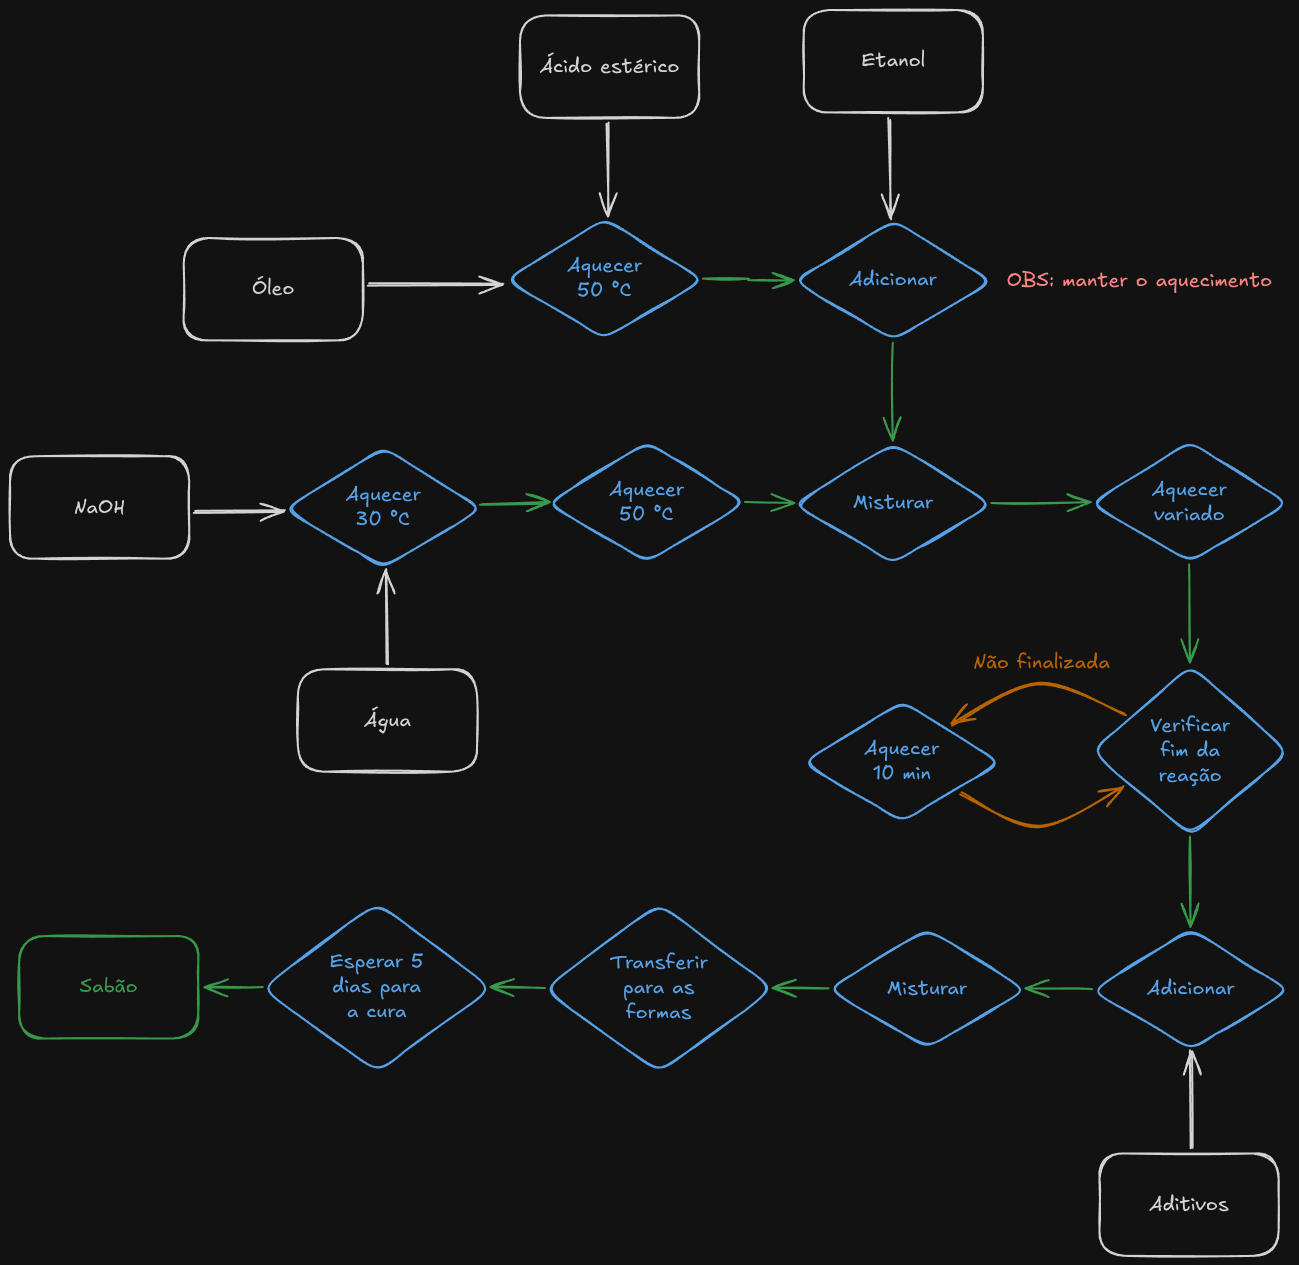
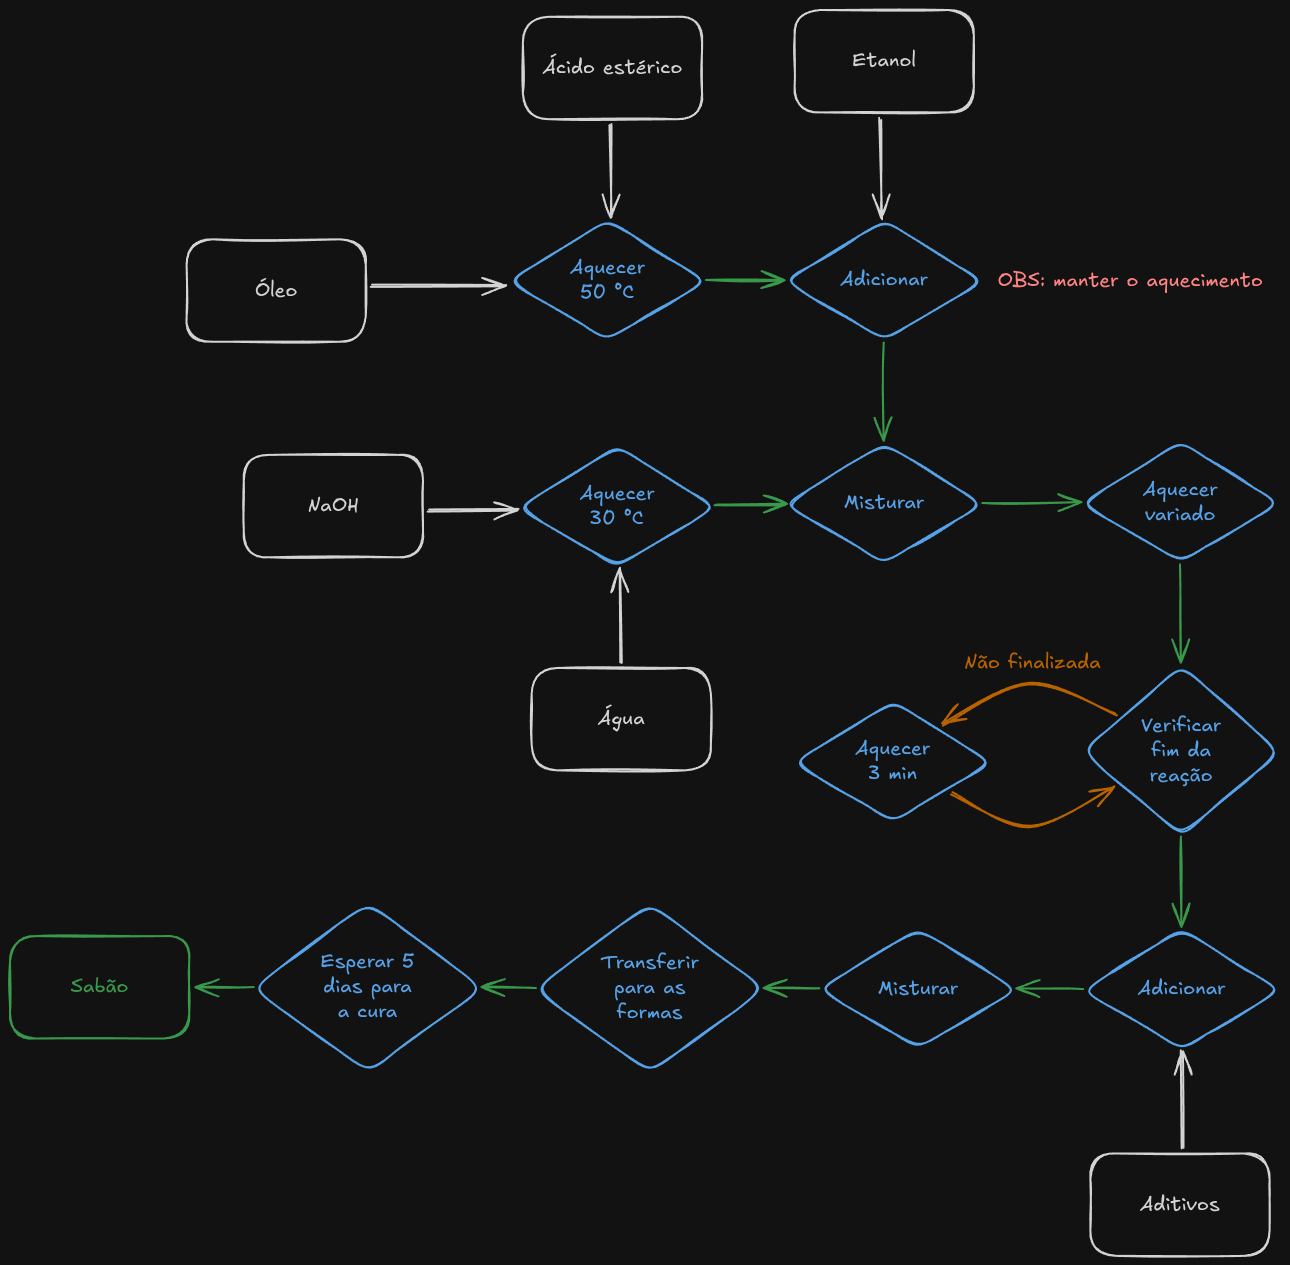
algumas alterações

diff --git a/src/discussao/dias_de_experimento.tex b/src/discussao/dias_de_experimento.tex
@@ -334,7 +334,7 @@ Manteve-se a proporção de óleos da melhor reação obtida até então (tercei
         Massa total (g)            & 119,57 & 124,60 \\
         Perc. de babaçu (\%)       & 33,37  & 36,67  \\
         NaOH (g)                   & 18,48  & 19,18  \\
-        Massa de ác. esteárico (g) & 3,58   & 4,05   \\
+        Massa de ác. esteárico (g) & 3,98   & 4,05   \\
         \bottomrule
     \end{tabular}
 \end{table}
@@ -404,7 +404,7 @@ O sexto dia repetiu o experimento do quinto, reduzindo-se a quantidade de etanol
         Massa total (g)            & 119,57 & 121,66 \\
         Perc. de babaçu (\%)       & 33,37  & 32,99  \\
         NaOH (g)                   & 18,48  & 18,51  \\
-        Massa de ác. esteárico (g) & 3,58   & 3,59   \\
+        Massa de ác. esteárico (g) & 3,98   & 3,59   \\
         \bottomrule
     \end{tabular}
 \end{table}

diff --git a/src/discussao/avaliacao_final_dos_experimentos.tex b/src/discussao/avaliacao_final_dos_experimentos.tex
@@ -16,7 +16,7 @@ Por fim, a caracterização indicou que, após a cura completa, todas as amostra
 
 Os principais problemas estiveram ligados ao controle da quantidade de base e à constância das condições. Na primeira aula, a substituição do óleo de coco pelo babaçu sem o recálculo da quantidade de NaOH resultou em excesso de base; na amostra~2, com maior teor de babaçu, esse excesso foi acentuado e levou a uma saponificação quase instantânea, gerando um produto granular e quebradiço, o pior resultado de todo o conjunto. Na segunda aula, o cálculo do NaOH foi feito para a mistura de babaçu e soja enquanto a proporção entre os óleos também era alterada, de modo que dois fatores variaram simultaneamente; somou-se a isso o uso de uma soda em lascas aparentemente contaminada por umidade, o que compromete a estimativa da base efetivamente reagindo. Por sorte a reação não se efetivou rápido o suficiente e o problema do uso reduzido hidróxido de sódio pode ser revertido antes do fim do experimento.
 
-Outras falhas pontuais comprometeram a constância das condições: na quarta aula, o óleo foi superaquecido a mais de 110~°C por descuido, faixa em que pode haver geração de ácidos graxos livres por degradação térmica; na quinta aula, empregou-se acidentalmente ácido esteárico em excesso, o que só foi percebido durante a redação do relatório; e, na sexta aula, a soda cáustica, já no fim do estoque, produziu uma solução com impurezas visíveis.
+Outras falhas pontuais comprometeram a constância das condições: na quarta aula, o óleo foi superaquecido a mais de 110~°C por descuido, faixa em que pode haver geração de ácidos graxos livres por degradação térmica; e, na sexta aula, empregou-se acidentalmente ácido esteárico em quantidade abaixo da planejada, o que só foi percebido durante a redação do relatório, e a soda cáustica, já no fim do estoque, produziu uma solução com impurezas visíveis.
 
 A própria etapa de caracterização apresentou limitações. A ausência de um sabão-controle dificultou uma avaliação mais palpável dos produtos. Além disso, o método de determinação da densidade mostrou-se pouco preciso: o deslocamento medido foi de apenas 2,0 a 2,5~ml em uma proveta de baixa resolução, de modo que pequenas variações de leitura alteram bastante o valor calculado (Tabela~\ref{tab:dia7_caracterizacao}). Esse problema fica evidente em uma incoerência observada: os sabões das duas primeiras aulas, apesar de apresentarem densidade calculada inferior à da água, afundaram quando imersos, o que sugere um erro de medida nessas duas amostras. Por fim, a amostra da segunda aula apresentou a maior solubilidade, o que pode estar associado a uma saponificação incompleta — seu interior continha uma quantidade de bolhas de óleo não saponificado bem maior que a das demais.
 